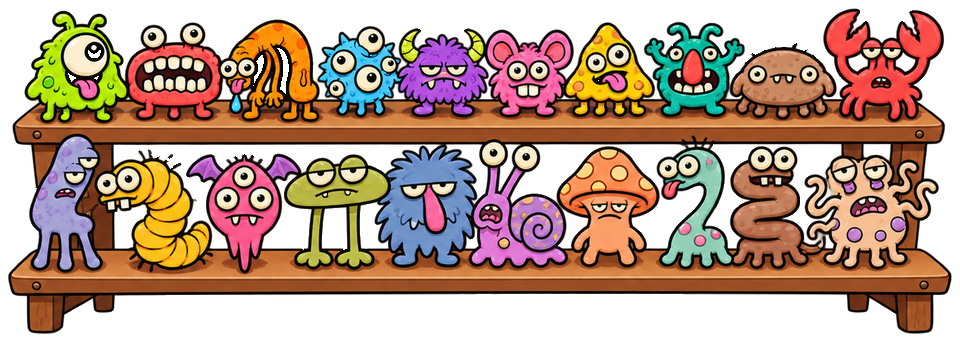
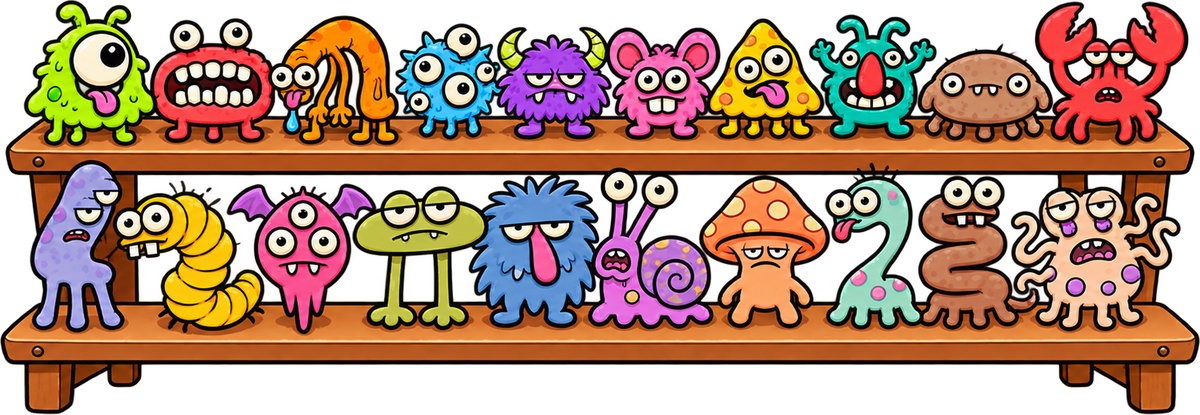
Add files via upload

diff --git a/game.js b/game.js
@@ -576,20 +576,22 @@ function nwBattleSeasonClock(){
 // Local-only milestone ledger. One entry per account, UTC month and tier.
 const nwBattleDiamondKey='nineweird-battle-diamond-claims-v1';
 function nwBattleDiamondClaims(){const v=nwRead(nwBattleDiamondKey,{});return v&&typeof v==='object'&&!Array.isArray(v)?v:{};}
-function nwBattleDiamondClaimed(month,wins){return nwBattleDiamondClaims()[month+':'+wins]===wins;}
-function nwBattleDiamondTotal(){return Object.values(nwBattleDiamondClaims()).reduce((sum,n)=>sum+(nwSeasonFrameTiers.some(t=>t.wins===n)?n:0),0);}
+function nwBattleDiamondClaimed(month,wins){const c=nwBattleDiamondClaims()[month+':'+wins];return c===wins||(c&&typeof c==='object'&&c.wins===wins);}
+function nwBattleDiamondTotal(){return Object.values(nwBattleDiamondClaims()).reduce((sum,n)=>sum+(Number.isSafeInteger(n?.amount)?n.amount:(nwSeasonFrameTiers.some(t=>t.wins===n)?n:0)),0);}
 function nwDiamondBalance(){const d=nwRead(nwTripleKey,null);return Math.max(0,nwBattleDiamondTotal()+(Number.isSafeInteger(d?.diamondDelta)?d.diamondDelta:0));}
 function nwClaimBattleDiamond(wins,month){
  if(!nwPlayerStorageKey(nwBattleDiamondKey)||month!==nwSeasonId()||!nwSeasonFrameTiers.some(t=>t.wins===wins)||nwBattleMonthStats().wins<wins)return false;
  const claims=nwBattleDiamondClaims(),key=month+':'+wins;
- if(claims[key]===wins)return false;
- claims[key]=wins;nwWrite(nwBattleDiamondKey,claims);
+ if(nwBattleDiamondClaimed(month,wins))return false;
+ claims[key]={wins,amount:nwBattleDiamondPrize(wins)};nwWrite(nwBattleDiamondKey,claims);
  return nwBattleDiamondClaimed(month,wins);
 }
+const nwBattleDiamondPrizes={10:100,25:250,50:500,100:1000,150:1500,200:2000};
+function nwBattleDiamondPrize(wins){return nwBattleDiamondPrizes[wins]||0;}
 function nwDiamondAmount(n){return `<span class="nw-diamond-amount"><img class="nw-diamond-icon" src="assets/currency/diamond.png" alt="Diamonds"><span>${n}</span></span>`;}
 function nwBattleRewards(){
  evSudokuLeave();applyTheme('hub');evRoot.classList.add('nw-battle-theme');const st=nwBattleMonthStats(),month=nwSeasonId();
- evDisplay(`${evHeader('',showBattle)}<section class="nw-battle nw-battle-ready nw-battle-rewards"><div class="nw-radio-ornament" aria-hidden="true">⋆ ☢ ⋆</div><h2>BATTLE REWARDS</h2><p class="nw-radio-season">${st.wins} MONTHLY WINS · RESETS IN ${nwBattleSeasonClock()}</p><div class="nw-battle-diamond-balance">YOUR DIAMONDS ${nwDiamondAmount(nwDiamondBalance())}</div><div class="nw-radio-tiers">${nwSeasonFrameTiers.map(t=>{const unlocked=st.wins>=t.wins,claimed=nwBattleDiamondClaimed(month,t.wins);return `<div class="nw-radio-tier ${unlocked?'earned':''}"><div class="nw-radio-frame-preview"><img class="nw-radio-reward-art" src="frames/nw-monthly-${t.wins}.png" alt="${nwEscape(t.title)} frame"></div><div><strong>${nwEscape(t.title)}</strong><small>${t.wins} WINS · ${unlocked?'UNLOCKED':'LOCKED'}</small><div class="nw-radio-progress"><i style="width:${Math.min(100,st.wins/t.wins*100)}%"></i></div><div class="nw-battle-diamond-row">${nwDiamondAmount(t.wins)}${claimed?'<span class="nw-battle-claim-status">CLAIMED</span>':unlocked?`<button type="button" class="nw-battle-claim" data-diamond-claim="${t.wins}">CLAIM</button>`:'<span class="nw-battle-claim-status">LOCKED</span>'}</div></div></div>`;}).join('')}</div><p class="nw-battle-claim-error" role="status" hidden></p><button class="nw-battle-fine-button" id="nwRadioBack">BACK TO BATTLE</button></section>`);
+ evDisplay(`${evHeader('',showBattle)}<section class="nw-battle nw-battle-ready nw-battle-rewards"><div class="nw-radio-ornament" aria-hidden="true">⋆ ☢ ⋆</div><h2>BATTLE REWARDS</h2><p class="nw-radio-season">${st.wins} MONTHLY WINS · RESETS IN ${nwBattleSeasonClock()}</p><div class="nw-battle-diamond-balance">YOUR DIAMONDS ${nwDiamondAmount(nwDiamondBalance())}</div><div class="nw-radio-tiers">${nwSeasonFrameTiers.map(t=>{const unlocked=st.wins>=t.wins,claimed=nwBattleDiamondClaimed(month,t.wins);return `<div class="nw-radio-tier ${unlocked?'earned':''}"><div class="nw-radio-frame-preview"><img class="nw-radio-reward-art" src="frames/nw-monthly-${t.wins}.png" alt="${nwEscape(t.title)} frame"></div><div><strong>${nwEscape(t.title)}</strong><small>${t.wins} WINS · ${unlocked?'UNLOCKED':'LOCKED'}</small><div class="nw-radio-progress"><i style="width:${Math.min(100,st.wins/t.wins*100)}%"></i></div><div class="nw-battle-diamond-row">${nwDiamondAmount(nwBattleDiamondPrize(t.wins))}${claimed?'<span class="nw-battle-claim-status">CLAIMED</span>':unlocked?`<button type="button" class="nw-battle-claim" data-diamond-claim="${t.wins}">CLAIM</button>`:'<span class="nw-battle-claim-status">LOCKED</span>'}</div></div></div>`;}).join('')}</div><p class="nw-battle-claim-error" role="status" hidden></p><button class="nw-battle-fine-button" id="nwRadioBack">BACK TO BATTLE</button></section>`);
  evRoot.querySelector('#nwRadioBack').onclick=showBattle;
  evRoot.querySelectorAll('[data-diamond-claim]').forEach(b=>b.onclick=async()=>{b.disabled=true;const wins=Number(b.dataset.diamondClaim),scoped=nwPlayerStorageKey(nwBattleDiamondKey);const claim=()=>scoped&&scoped===nwPlayerStorageKey(nwBattleDiamondKey)&&nwClaimBattleDiamond(wins,month);let ok=false;try{ok=navigator.locks?await navigator.locks.request(scoped||'nw-battle-no-account',claim):claim();}catch{}if(!b.isConnected)return;if(ok||nwBattleDiamondClaimed(month,wins)){nwBattleRewards();return;}b.disabled=false;const e=evRoot.querySelector('.nw-battle-claim-error');if(e){e.hidden=false;e.textContent='Unable to claim reward. Please try again.';}});
 }
@@ -715,14 +717,14 @@ function nwDoubleDifficulty(){
 function nwDoubleReward(m,now=Date.now()){
  const tally=nwDoubleScores(m,Math.min(now,m.end));
  const winning=tally.ours>=tally.theirs,first=m.teamPoints>=tally.p[0];
- return {eligible:m.teamPoints>=1000,winning,first,amount:m.teamPoints>=1000?(winning?(first?200:150):(first?100:50)):0,finished:now>=m.end};
+ return {eligible:m.teamPoints>=3500,winning,first,amount:m.teamPoints>=3500?(winning?(first?1000:700):(first?500:200)):0,finished:now>=m.end};
 }
 function nwDoubleRewards(){
  clearInterval(nwDoubleTimer);nwDoubleTheme();const d=nwDoubleStore(),m=d.matches[nwDoublePeriod().id],past=Object.values(d.matches).filter(x=>x.end<=Date.now()).sort((a,b)=>b.end-a.end);
  const tier=(name,amounts,rival=false)=>`<article class="nw-double-reward-tier${rival?' rival':''}"><h3>${name}</h3>${amounts.map((n,i)=>`<div><span>${i?'SECOND CONTRIBUTOR':'HIGHEST CONTRIBUTOR'}</span><strong>${nwDiamondAmount(n)}</strong></div>`).join('')}</article>`;
- const progress=m?`<div class="nw-double-reward-progress"><strong>${nwDoubleFmt(m.teamPoints)} / 1,000 PTS</strong><div class="nw-double-eligibility-track"><i style="width:${Math.max(0,Math.min(100,m.teamPoints/10))}%"></i></div><small>${m.teamPoints>=1000?'MINIMUM CONTRIBUTION REACHED':'Earn '+nwDoubleFmt(1000-m.teamPoints)+' more points to qualify.'}</small></div>`:'';
+ const progress=m?`<div class="nw-double-reward-progress"><strong>${nwDoubleFmt(m.teamPoints)} / 3,500 PTS</strong><div class="nw-double-eligibility-track"><i style="width:${Math.max(0,Math.min(100,m.teamPoints/35))}%"></i></div><small>${m.teamPoints>=3500?'MINIMUM CONTRIBUTION REACHED':'Earn '+nwDoubleFmt(3500-m.teamPoints)+' more points to qualify.'}</small></div>`:'';
  const completed=past.length?`<h3>PAST EVENT REWARDS</h3>${past.map(x=>{const r=nwDoubleReward(x);return `<div class="nw-double-reward-record"><span>${nwEscape(x.id)} · ${r.eligible?'QUALIFIED':'NOT QUALIFIED'}</span><strong>${nwDiamondAmount(r.amount)}</strong>${r.eligible?'<small>Reward claims unavailable for this match.</small>':''}</div>`}).join('')}`:'';
- evDisplay(`${evHeader('',nwDoublePracticeScreen)}<section class="nw-double nw-double-reward-page"><h2 class="nw-double-subtitle">.✦ ݁˖ REWARDS</h2>${tier('WINNING TEAM',[200,150])}${tier('LOSING TEAM',[100,50],true)}<p class="nw-double-note">Earn at least 1,000 individual points to qualify. Rewards are determined when the event ends.</p>${progress}${completed}${past.length?nwDoubleButton('nwDoubleHistory','EVENT HISTORY',true):''}</section>`);
+ evDisplay(`${evHeader('',nwDoublePracticeScreen)}<section class="nw-double nw-double-reward-page"><h2 class="nw-double-subtitle">.✦ ݁˖ REWARDS</h2>${tier('WINNING TEAM',[1000,700])}${tier('LOSING TEAM',[500,200],true)}<p class="nw-double-note">Earn at least 3,500 individual points to qualify. Rewards are determined when the event ends.</p>${progress}${completed}${past.length?nwDoubleButton('nwDoubleHistory','EVENT HISTORY',true):''}</section>`);
  const history=evRoot.querySelector('#nwDoubleHistory');if(history)history.onclick=nwDoubleHistory;
 }
 function nwDoubleHistory(){clearInterval(nwDoubleTimer);nwDoubleTheme();const matches=Object.values(nwDoubleStore().matches).filter(m=>m.end<=Date.now()).sort((a,b)=>b.end-a.end);evDisplay(`${evHeader('EVENT HISTORY',nwDoubleRewards)}<section class="nw-double"><h2>EVENT HISTORY</h2>${matches.length?matches.map(m=>{const s=nwDoubleScores(m,m.end);return `<button class="nw-double-btn secondary" data-double-result="${m.id}">${m.id} · ${s.ours>s.theirs?'VICTORY':s.ours<s.theirs?'DEFEAT':'DRAW'} · ${nwDoubleFmt(s.ours)} / ${nwDoubleFmt(s.theirs)}</button>`}).join(''):'<p>No completed events yet.</p>'}</section>`);evRoot.querySelectorAll('[data-double-result]').forEach(b=>b.onclick=()=>nwDoubleResult(b.dataset.doubleResult))}

diff --git a/growing/index.html b/growing/index.html
@@ -232,6 +232,20 @@ html,body,#app{font-family:'Bubblegum Sans','Trebuchet MS',sans-serif}
 .growing-hero{background:transparent!important}
 .growing-hero:before{content:none!important;display:none!important;animation:none!important}
 .growing-hero-heading{background:transparent!important;box-shadow:none!important}
+
+/* They're Growing! — rising radioactive stink wisps, behind the transparent class photo. */
+.growing-class-photo-wrap{isolation:isolate;overflow:visible}
+.growing-smoke{inset:-23% -4% -7%;z-index:1;overflow:visible;pointer-events:none;contain:paint}
+.growing-smoke i{position:absolute;top:13%;bottom:auto;height:95%;width:13%;border-radius:46% 55% 42% 55%;opacity:0;filter:blur(13px);background:radial-gradient(ellipse at 50% 72%,#B8F45C6E 0%,#91D83A49 25%,#699E2130 46%,transparent 73%);animation:tgSmellRise 8.3s ease-in-out infinite!important;transform-origin:50% 85%;will-change:transform,opacity}
+.growing-smoke i:nth-child(1){left:7%;width:15%;animation-delay:-1.7s!important}
+.growing-smoke i:nth-child(2){left:30%;width:12%;animation-delay:-5.6s!important}
+.growing-smoke i:nth-child(3){right:23%;width:17%;animation-delay:-3.2s!important}
+.growing-smoke i:nth-child(4){right:3%;width:13%;animation-delay:-6.9s!important}
+.growing-smoke:before,.growing-smoke:after{content:'';position:absolute;z-index:0;width:33%;height:52%;bottom:12%;border-radius:50%;filter:blur(27px);opacity:.25;background:radial-gradient(ellipse,#B9F25A75,transparent 75%);animation:tgSmellDrift 11s ease-in-out infinite alternate;pointer-events:none}
+.growing-smoke:before{left:12%}.growing-smoke:after{right:10%;animation-delay:-5s}
+@keyframes tgSmellRise{0%{transform:translate3d(-14px,27px,0) rotate(-14deg) scale(.65, .7);opacity:0}24%{opacity:.35}57%{opacity:.46}88%{opacity:.15}100%{transform:translate3d(24px,-55px,0) rotate(18deg) scale(1.1,1.35);opacity:0}}
+@keyframes tgSmellDrift{from{transform:translate(-14px,8px) scale(.85);opacity:.14}to{transform:translate(25px,-16px) scale(1.13);opacity:.30}}
+@media(prefers-reduced-motion:reduce){.growing-smoke i,.growing-smoke:before,.growing-smoke:after{animation:none!important;opacity:.2}}
 </style><link href="https://fonts.googleapis.com/css2?family=Bubblegum+Sans&family=Eater&display=swap" rel="stylesheet"></head><body><main id="app" class="shell"></main><script src="engine.js"></script><script src="app.js"></script><script>
 (function(){
   if(window.parent===window)return;
